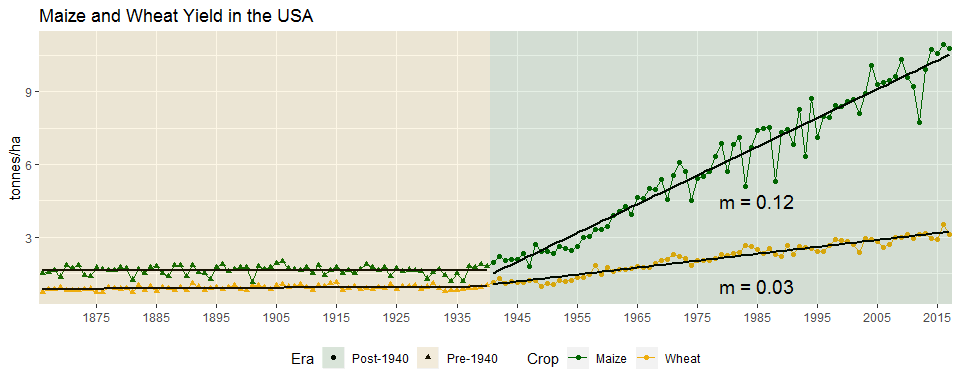
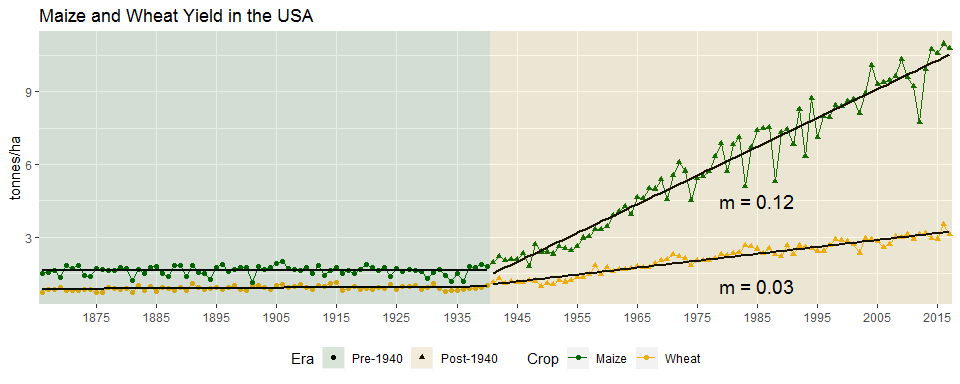
edit

Changed region(s): [[0.375, 0.9062, 0.5, 0.9688], [0.6875, 0.6562, 0.7188, 0.6875]]

diff --git a/Vignettes/agDataVignette_Wheat.md b/Vignettes/agDataVignette_Wheat.md
@@ -120,7 +120,8 @@ Maize yeilds have increased on a much faster pace than wheat, in part due to the
 xx <- agData_USDA_Crops %>%
   filter(Crop %in% c("Maize", "Wheat"),
          Measurement == "Yield") %>%
-  mutate(Era = ifelse(Year <= 1940, "Pre-1940", "Post-1940"))
+  mutate(Era = ifelse(Year <= 1940, "Pre-1940", "Post-1940"),
+         Era = factor(Era, levels = c("Pre-1940", "Post-1940")))
 # 
 x2 <- xx %>% 
   group_by(Era) %>% 
